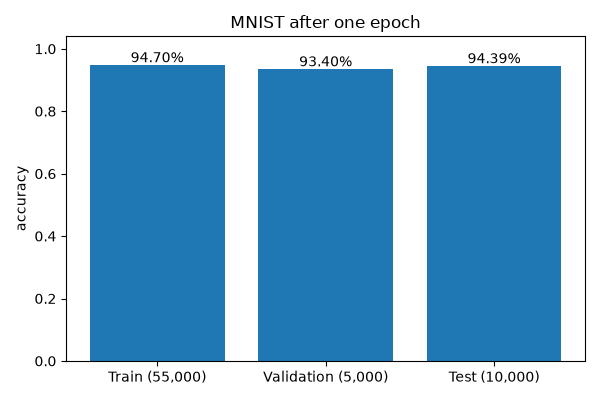
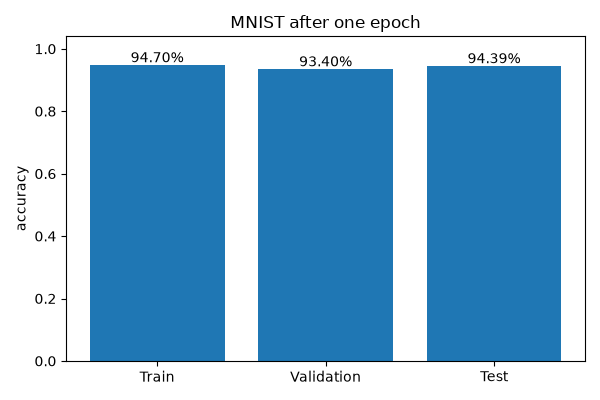
docs: 엔진 사용법과 전체 검증 결과 정리

Changed region(s): [[0.42, 0.93, 0.66, 0.96], [0.18, 0.93, 0.36, 0.96], [0.75, 0.93, 0.9, 0.96]]

diff --git a/train.py b/train.py
@@ -259,7 +259,7 @@ def plot_mnist(hist, output):
     if len(hist) == 1:
         values = [hist[0][key] for key in ("train_acc", "val_acc", "test_acc")]
         bars = plt.bar(
-            ["Train (55,000)", "Validation (5,000)", "Test (10,000)"], values
+            ["Train", "Validation", "Test"], values
         )
         for bar, value in zip(bars, values):
             plt.text(

diff --git a/README.md b/README.md
@@ -45,83 +45,11 @@ dropout_fixed_seed[0] max_abs=8.192e-13 rel=3.627e-12
 
 ```text
 $ python -m unittest discover -s tests -v
-add_broadcast[0] max_abs=4.458e-13 rel=1.803e-12
-add_broadcast[1] max_abs=5.979e-13 rel=1.532e-12
-mul_div_pow[0] max_abs=7.837e-13 rel=2.040e-10
-mul_div_pow[1] max_abs=2.140e-12 rel=4.448e-10
-matmul_both[0] max_abs=1.740e-13 rel=2.724e-12
-matmul_both[1] max_abs=1.655e-13 rel=1.374e-12
-reductions_reshape[0] max_abs=2.184e-12 rel=3.276e-12
-exp_log[0] max_abs=1.092e-12 rel=3.276e-12
-linear_layer[0] max_abs=2.243e-13 rel=5.037e-12
-linear_layer[1] max_abs=2.377e-13 rel=5.912e-12
-linear_layer[2] max_abs=2.080e-13 rel=5.601e-13
-relu[0] max_abs=3.098e-13 rel=1.092e-12
-sigmoid[0] max_abs=2.038e-12 rel=1.555e-11
-tanh[0] max_abs=1.110e-11 rel=5.749e-11
-leaky_relu[0] max_abs=3.098e-13 rel=1.092e-12
-elu[0] max_abs=3.098e-13 rel=1.092e-12
-softmax_weighted[0] max_abs=6.260e-12 rel=1.068e-11
-shared_graph[0] max_abs=6.885e-12 rel=6.243e-12
-bce_logits[0] max_abs=3.347e-12 rel=9.373e-12
-categorical_ce[0] max_abs=1.334e-11 rel=2.737e-11
-dropout_fixed_seed[0] max_abs=8.192e-13 rel=3.627e-12
-test_adam_first_two_steps (test_engine.TestEngine.test_adam_first_two_steps)
-정의한 수학적 값과 경계 조건을 확인한다. ... ok
-test_add_broadcast_grad (test_engine.TestEngine.test_add_broadcast_grad)
-정의한 수학적 값과 경계 조건을 확인한다. ... ok
-test_backward_reset_semantics (test_engine.TestEngine.test_backward_reset_semantics)
-정의한 수학적 값과 경계 조건을 확인한다. ... ok
-test_bad_backward_seed_shape (test_engine.TestEngine.test_bad_backward_seed_shape)
-정의한 수학적 값과 경계 조건을 확인한다. ... ok
-test_bce_logits_extreme (test_engine.TestEngine.test_bce_logits_extreme)
-정의한 수학적 값과 경계 조건을 확인한다. ... ok
-test_deep_graph_without_recursion (test_engine.TestEngine.test_deep_graph_without_recursion)
-긴 그래프도 재귀 제한에 걸리지 않고 미분한다. ... ok
-test_dropout_mean_scaling_and_eval (test_engine.TestEngine.test_dropout_mean_scaling_and_eval)
-정의한 수학적 값과 경계 조건을 확인한다. ... ok
-test_elu_extreme_positive_is_not_exponentiated (test_engine.TestEngine.test_elu_extreme_positive_is_not_exponentiated)
-ELU 양수 분기에서 지수 overflow가 발생하지 않는다. ... ok
-test_exp_overflow_raises (test_engine.TestEngine.test_exp_overflow_raises)
-정의한 수학적 값과 경계 조건을 확인한다. ... ok
-test_gradient_checker_runs (test_engine.TestEngine.test_gradient_checker_runs)
-정의한 수학적 값과 경계 조건을 확인한다. ... ok
-test_initializers_variance (test_engine.TestEngine.test_initializers_variance)
-정의한 수학적 값과 경계 조건을 확인한다. ... ok
-test_leakyrelu_elu_grads (test_engine.TestEngine.test_leakyrelu_elu_grads)
-정의한 수학적 값과 경계 조건을 확인한다. ... ok
-test_linear_input_weight_bias_grads (test_engine.TestEngine.test_linear_input_weight_bias_grads)
-정의한 수학적 값과 경계 조건을 확인한다. ... ok
-test_log_nonpositive_raises (test_engine.TestEngine.test_log_nonpositive_raises)
-정의한 수학적 값과 경계 조건을 확인한다. ... ok
-test_log_tiny_positive_exact (test_engine.TestEngine.test_log_tiny_positive_exact)
-정의한 수학적 값과 경계 조건을 확인한다. ... ok
-test_matmul_explicit_grad (test_engine.TestEngine.test_matmul_explicit_grad)
-정의한 수학적 값과 경계 조건을 확인한다. ... ok
-test_nonfinite_seed_rejected (test_engine.TestEngine.test_nonfinite_seed_rejected)
-비유한 seed를 계산에 전파하지 않는다. ... ok
-test_power_zero_gradient (test_engine.TestEngine.test_power_zero_gradient)
-정의한 수학적 값과 경계 조건을 확인한다. ... ok
-test_relu_sigmoid_tanh_values (test_engine.TestEngine.test_relu_sigmoid_tanh_values)
-정의한 수학적 값과 경계 조건을 확인한다. ... ok
-test_sequential_train_eval (test_engine.TestEngine.test_sequential_train_eval)
-정의한 수학적 값과 경계 조건을 확인한다. ... ok
-test_sgd_coupled_l2 (test_engine.TestEngine.test_sgd_coupled_l2)
-정의한 수학적 값과 경계 조건을 확인한다. ... ok
-test_shared_graph_grad (test_engine.TestEngine.test_shared_graph_grad)
-정의한 수학적 값과 경계 조건을 확인한다. ... ok
-test_softmax_ce_extreme (test_engine.TestEngine.test_softmax_ce_extreme)
-정의한 수학적 값과 경계 조건을 확인한다. ... ok
-test_softmax_weighted_grad_formula (test_engine.TestEngine.test_softmax_weighted_grad_formula)
-정의한 수학적 값과 경계 조건을 확인한다. ... ok
-
-----------------------------------------------------------------------
-Ran 24 tests in 0.217s
-
+Ran 27 tests in 0.072s
 OK
 ```
 
-log의 작은 양수, exp의 범위 초과, 0지수, 극단 로짓의 손실, 공유 그래프, 긴 그래프와 Dropout 평가 모드를 확인했습니다. 아직 학습 성공 결과를 대신하는 검사는 아닙니다.
+연산 경계/공유 그래프/1,500단계 그래프, 초기화 분산, SGD/Adam의 독립 수식, Dropout 평가 모드와 IDX/배치 경계를 확인했습니다. 전체 실행 로그는 [단위 검사](logs/unit-tests.txt)와 [수치 미분](logs/gradient-check.txt)에 있습니다.
 
 ## 초기화별 XOR 학습
 
